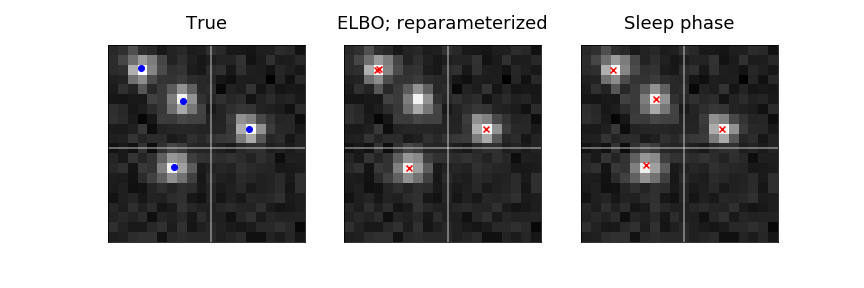
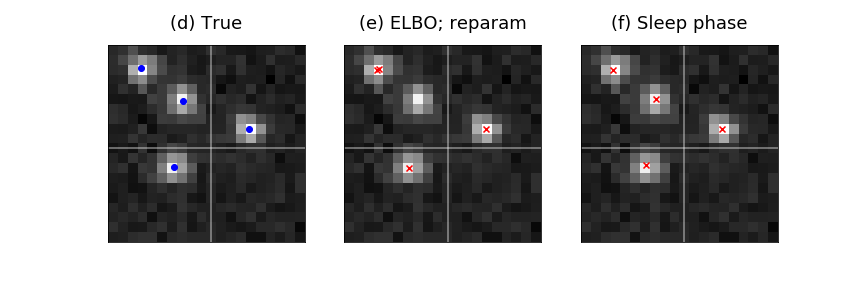
more edits

Changed region(s): [[0.375, 0.0312, 0.6562, 0.125], [0.6875, 0.0312, 0.875, 0.125], [0.1875, 0.0312, 0.2812, 0.125]]

diff --git a/6-results-m2.tex b/6-results-m2.tex
@@ -78,7 +78,7 @@ Estimated catalogs are evaluated on three metrics: the true positive rate (TPR),
 the PPV is the proportion of stars in the estimated catalog matched with a star in the HST catalog. The F1 score summarizes the two metrics as the harmonic mean of the PPV and the TPR.
 
 Like \cite{Portillo_2017} and \cite{Feder_2019}, a ``match" between an estimated star and an HST star is defined as follows: (1) the estimated location and the HST location are within 0.5 SDSS pixels, and (2) the estimated SDSS $r$-band flux and the HST F606W band flux are within half a magnitude. 
-The SDSS $r$-band and the Hubble F606W band are centered at roughly the same wavelength, but the wavelength range of the Hubble F606W band is slightly broader. 
+The slack in magnitude accounts for the fact that the wavelength range of the HST F606W band is slightly broader than the SDSS $r$-band (though they are centered at roughly the same wavelength). 
 
 In probabilistic cataloging (PCAT and StarNet), the posterior defines a distribution over catalogs. 
 For StarNet, the TPR, PPV, and F1 score were computed for the catalog corresponding to the mode of the variational distribution (henceforth, the StarNet catalog). 
@@ -98,7 +98,7 @@ For PCAT, 300 catalogs were sampled using MCMC; the metrics were computed for ea
 \end{figure}
 
 Fitting StarNet using wake-sleep (StarNet-WS) resulted in a catalog that outperforms DAOPHOT and PCAT in F1 score (Table~\ref{tab:summary_stats}). 
-Figure~\ref{fig:example_subimages} shows the StarNet-WS catalog alongside PCAT, DAOPHOT, and Hubble catalogs. 
+Figure~\ref{fig:example_subimages} shows the StarNet-WS catalog alongside PCAT, DAOPHOT, and HST catalogs. 
 Fitting StarNet without the wake phase
 and using only the default SDSS background and PSF (StarNet-S) produced a catalog with a TPR similar to that of StarNet-WS but with a smaller PPV.
 PCAT estimated the most stars of all methods; it therefore had a large TPR but a small PPV. 
@@ -107,7 +107,7 @@ The StarNet-WS catalog had about the same PPV as DAOPHOT while having nearly the
 
 Table~\ref{tab:summary_stats} also prints the number of stars inferred by each method. 
 For probabilistic methods (StarNet and PCAT), we display the mean number of stars under the approximate posterior, along with the 5-th and 95-th quantiles. 
-There are 1114 stars in the Hubble catalog.
+There are 1114 stars in the HST catalog.
 Neither PCAT nor StarNet captured the true number of stars in their 90\% credible interval, though StarNet-WS came the closest. 
 The StarNet credible intervals were three times wider than the PCAT intervals.
 The small PCAT credible intervals may be indicative of an MCMC sampler that failed to mix well. 
@@ -116,7 +116,7 @@ The small PCAT credible intervals may be indicative of an MCMC sampler that fail
 \input{tables/summary_stats_m2.txt}
 
 The improvement of StarNet-WS in PPV was most pronounced for dim stars (Figure~\ref{fig:summary_stats}). The TPR for StarNet-WS was uniformly better than DAOPHOT across all magnitudes. 
-Of all methods, StarNet-WS best approximated the Hubble flux distribution (Figure~\ref{fig:luminosity_fun_m2}). 
+Of all methods, StarNet-WS best approximated the HST flux distribution (Figure~\ref{fig:luminosity_fun_m2}). 
 % PCAT overestimated the number of dim stars with magnitudes greater than 21. 
 % In contrast, DAOPHOT failed to find stars with magnitudes greater than $21$.
 
@@ -147,7 +147,7 @@ Of all methods, StarNet-WS best approximated the Hubble flux distribution (Figur
     \includegraphics[width=0.99\textwidth]{figures/m2_results/luminosity_fun.png}
     \vspace{-0.4cm}
     \caption{Source magnitude histograms for the $r$-band observations of M2. 
-    The magnitude distribution of the Hubble catalog in grey. 
+    The magnitude distribution of the HST catalog in grey. 
     Magnitude distributions for the DAOPHOT, PCAT, and StarNet-WS catalogs overlaid.
     For PCAT, the magnitude histogram is from a single catalog sample. }
     \label{fig:luminosity_fun_m2}
@@ -173,9 +173,9 @@ The StarNet-WS estimate increases the intensity of the background, and hence doe
 % and is thus able to capture uncertainties in catalog construction. 
 % Samples from the StarNet-WS variational distribution are compared with samples from PCAT in Figure~\ref{fig:example_subimages_sampled}. 
 To examine the uncertainty calibration of StarNet-WS, we evaluated the approximate posterior 
-conditional on the true number of stars in the Hubble catalog. 
+conditional on the true number of stars in the HST catalog. 
 Then, each star in the StarNet-WS catalog was matched with exactly one Hubble star by finding the permutation of Hubble stars that had the largest log-likelihood under our variational distribution $q_\eta$. 
-For each star, we computed the z-score $(y - \hat y) / \hat \sigma$, where $y$ is the Hubble log-flux or 
+For each star, we computed the z-score $(y - \hat y) / \hat \sigma$, where $y$ is the HST log-flux or 
 logit-location; $\hat y$ and $\hat\sigma$ are the mean and the standard deviation, respectively, of the Gaussian variational distribution for the log-flux or logit-location.
 % If the uncertainties were perfectly calibrated, the distribution of these z-scores would be a standard Gaussian. 
 The empirical z-score distributions are close to a standard Gaussian with some discrepancy in the tails and some evidence of skewness, suggesting the uncertainties are not too mis-estimated (Figure~\ref{fig:z-score_calibration}). 
@@ -207,19 +207,19 @@ The empirical z-score distributions are close to a standard Gaussian with some d
 % \end{figure}
 
 
-Finally, we evaluate the quality of the wake-phase estimates for the PSF and background. Let $z_h$ denote the Hubble catalog, and given some model parameters $\phi$, let
+Finally, we evaluate the quality of the wake-phase estimates for the PSF and background. Let $z_h$ denote the HST catalog, and given some model parameters $\phi$, let
 \begin{align}
     \mathcal{L}^{Hubble}(\phi) := 
     - \log \; p_\phi(x^{(r)} | z_h)
     \label{eq:hubble_neg_loglik}
 \end{align}
-be the negative log-likelihood of the SDSS $r$-band image conditional on the Hubble catalog (recall that the Hubble absorption range most closely resembles the SDSS $r$-band).
+be the negative log-likelihood of the SDSS $r$-band image conditional on the HST catalog (recall that the Hubble absorption range most closely resembles the SDSS $r$-band).
 The log-likelihood of model parameters estimated by the wake phase is about two times larger than the log-likelihood of parameters estimated by SDSS~(Table~\ref{tab:chi-square-stats1}). 
 The largest improvement in log-likelihood came from the wake-estimated background, which was brighter than the SDSS background, suggesting that the SDSS background was too dim for this starfield. 
 
 \input{tables/chi_sq_stats.txt}
 
-Appendix~\ref{sec:test_m2} presents these results of StarNet, PCAT, and DAOPHOT on a neighboring $100 \times 100$ pixel subimage of M2. 
+Appendix~\ref{sec:test_m2} presents the results of StarNet, PCAT, and DAOPHOT on a neighboring $100 \times 100$ pixel subimage of M2. 
 The results remain qualitatively similar in that StarNet has the best F1 score of all methods. 
 Importantly, StarNet was applied to the new region without further wake-sleep optimization; StarNet produced a catalog on this new region in $\approx 30$ milliseconds. 
 On the other hand, PCAT required a new 30 minute run of MCMC. 

diff --git a/4c-sleep_details.tex b/4c-sleep_details.tex
@@ -1,6 +1,6 @@
 \subsection{Decomposing the sleep objective}
 \label{sec:sleep_details}
-In this section, we decompose the sleep objective in~\eqref{eq:sleep_obj} for closer study. 
+In this subsection, we decompose the sleep objective in~\eqref{eq:sleep_obj} for closer study. 
 We take $\phi$ as fixed in this section and drop the explicit dependence of $p$ on $\phi$.
 
 First, observe that optimizing the sleep objective does not require computing the intractable term $p(x)$:
@@ -15,34 +15,33 @@ Crucially, the integrating distribution, $p(x,z)$, does not depend on the optimi
 % In the ELBO, the integrating distribution is $q_\eta$, resulting in the need for reparameterization or other adjustments to compute stochastic gradients. 
 Thus, unbiased stochastic gradients can be obtained simply as 
 \begin{align}
-    g = -\nabla_\eta \log q_\eta(z | x) \quad \text{ for } (z, x)\sim p(x, z).
+    g = -\nabla_\eta \log q_\eta(z | x) \quad \text{ for } (x, z)\sim p(x, z).
 \end{align}
 
-In other words, the sleep phase simulates {\itshape complete} data $(z, x)$ from the generative model and evaluates the loss $-\log q_\eta(z | x)$. 
+In other words, at each iteration of SGD, the sleep phase simulates {\itshape complete} data $(x,z)$ from the generative model and evaluates the loss $-\log q_\eta(z | x)$. 
 Here, ``complete data" refers to the image along with its catalog. 
 This loss encourages the neural network to map an image $x$ to a distribution $q_{\eta}(\cdot | x)$ that places large mass on the image's catalog $z$.
 
 We decompose the loss $-\log q_\eta(z | x)$ further. 
 Recall that $q_\eta$ fully factorizes over tile latent variables, and thus $-\log q_\eta(z | x)$ is a summation over all tile latent variables. 
-To evaluate the $-\log q_\eta(z | x)$ for some $(x,z)\sim p$, first convert $z$ to its tile parameterization $(\tilde N^{(s,t)}, \tilde \ell^{(s,t)}, \tilde f^{(s,t)})_{s=1,t=1}^{(S,T)}$, as detailed in Appendix REF.
+To evaluate $-\log q_\eta(z | x)$ for some $(x,z)\sim p$, first convert $z$ to its tile parameterization $(\tilde N^{(s,t)}, \tilde \ell^{(s,t)}, \tilde f^{(s,t)})_{s=1,t=1}^{(S,T)}$, as detailed in Appendix REF.
 On each tile $(s,t)$, the number of stars $\tilde N^{(s,t)}$ is categorical with parameter $\omega^{(s,t)}$ (recall Section~\ref{sec:distr_on_tiles}).
 The loss function for the number of stars becomes
 \begin{align}
-    - \log q_\eta(\tilde N^{(s,t)} | x) = -\sum_{n = 0}^{\tilde N_{max}} 1\{\tilde N^{(s,t)} = n\} \log \omega^{(s,t)}_n, 
+    - \log q_\eta(\tilde N^{(s,t)} | x) = -\sum_{n = 0}^{\tilde N_{max}} 1\{\tilde N^{(s,t)} = n\} \log \omega^{(s,t)}_n.
     \label{eq:cross_entropy_loss}
 \end{align}
-$\omega^{(s,t)}_n$ is the output of the neural network, and \eqref{eq:cross_entropy_loss} is the usual cross-entropy loss for a multi-class classification problem. 
+The vector $\omega^{(s,t)}$ is the output of the neural network, and \eqref{eq:cross_entropy_loss} is the usual cross-entropy loss for a multi-class classification problem. 
 
 Next, recall that location coordinates are logit-normal and fluxes are log-normal. 
-Let $y$ generically denote either the logit-location or log-flux for a star in catalog $z$; let $(\mu, \sigma)$ be the Guassian mean and standard deviation returned by the neural network. Then,
+Let $y$ generically denote either the logit-location or log-flux for a star in the sampled catalog $z$; let $(\mu, \sigma^2)$ be the Guassian mean and variance returned by the neural network. Then,
 \begin{align}
     -\log q_\eta(y | x) = 
         \frac{1}{2\sigma^2}(y - \mu)^2
-         + \log\sigma
-         + \frac{1}{2}\log(2\pi).
+         + \frac{1}{2}\log(2\pi\sigma^2).
          \label{eq:gaussian_sleep_loss}
 \end{align}
-The first term encourages network predictions $\mu$ to be close to the sampled latent variable $y$, while $\sigma^2$ encodes the uncertainty of the network: the second term encourages small uncertainties, but this is 
+The first term encourages network predictions $\mu$ to be close to the sampled latent variable $y$, while $\sigma^2$ encodes the uncertainty of the network: the second term encourages small uncertainties, but is 
 balanced by the scaling of the error $(y - \mu)^2$ in the first term. 
 
 % By our discussion in Section~\ref{sec:factorization}, 
@@ -58,7 +57,7 @@ balanced by the scaling of the error $(y - \mu)^2$ in the first term.
 % $\sigma_{n,i}$ is also outputted by the neural network, representing uncertainty -- the second term encourages small uncertainties, but this is 
 % balanced by the scaling of the error $(y_{n,i} - \mu_{n,i})^2$ in the first term. 
 
-The losses in~\eqref{eq:cross_entropy_loss} and~\eqref{eq:gaussian_sleep_loss} show that the sleep objective results in a supervised learning problem on complete data simulated from our generative model: the objective function for the number of stars is the usual cross-entropy loss for classification, while the objective function for log-fluxes and logit-locations are $L_2$ losses in the mean parameters. 
+The losses in~\eqref{eq:cross_entropy_loss} and~\eqref{eq:gaussian_sleep_loss} show that the sleep objective results in a supervised learning problem on complete data sampled from our generative model: the objective function for the number of stars is the usual cross-entropy loss for classification, while the objective function for log-fluxes and logit-locations are $L_2$ losses in the mean parameters. 
 
 
 % In Section~\ref{sec:estep_sleep_compare}, we will see the benefits of using complete data and optimizing $q_\eta$ using the losses~\eqref{eq:cross_entropy_loss} and \eqref{eq:gaussian_sleep_loss}  rather than the traditional ELBO. 

diff --git a/3-var_inference.tex b/3-var_inference.tex
@@ -92,7 +92,7 @@ on each tile:
 where $\tilde\ell_{N, i}^{(s, t)}$ and $\tilde f_{N, i}^{(s, t)}$ are the elements of the triangular array corresponding to location and fluxes, respectively. 
 Tile locations $\tilde\ell_{N, i}^{(s, t)} \in [0, R]\times[0, R]$ give the location of stars within a tile. The fluxes $\tilde f_{N, i}^{(s, t)}$ are vectors in $\mathbb{R}^B_+$ (one flux for each band). 
 
-Call $(\tilde N^{(s, t)}, \tilde \ell^{(s, t)}, \tilde f^{(s, t)})_{s=1,t=1}^{S,T}$ the {\itshape tile latent variables}. The tile latent variables factorize over image tiles:
+Call $(\tilde N^{(s, t)}, \tilde \ell^{(s, t)}, \tilde f^{(s, t)})_{s=1,t=1}^{S,T}$ the {\itshape tile latent variables}. The distribution on tile latent variables factorize over image tiles:
 \begin{align}
     \tilde q_\eta\big( \big(\tilde N^{(s, t)}, \tilde \ell^{(s, t)}, \tilde f^{(s, t)}\big)_{s=1, t = 1}^{S, T}|x\big) 
     &=
@@ -103,11 +103,11 @@ Call $(\tilde N^{(s, t)}, \tilde \ell^{(s, t)}, \tilde f^{(s, t)})_{s=1,t=1}^{S,
 
 Succinctly denote tile latent variables as $\tilde z$.
 The ultimate latent variable of interest is $z = \{N, (\ell_i, f_{i,1}, ..., f_{i,B})_{i = 1}^N\}$, the catalog for the full image.
-There is a natural mapping from $\tilde z$ to $z$
-(see Figure~\ref{fig:tile_to_full_schm} for a schematic). 
+There is a natural mapping from $\tilde z$ to $z$. 
 First, the number of stars in the full catalog is given by the sum of the stars in each tile, $N = \sum_{s,t} \tilde N^{(s, t)}$. 
 Then, for every tile $(s,t)$, we index into the $\tilde N^{(s,t)}$-th row of the triangular array of tile latent variables $\tilde f^{(s,t)}$ and $\tilde \ell^{(s,t)}$. 
 The collection of these fluxes and locations form the full catalog (tile locations are shifted by the position of the tile in the full image to obtain locations in the full image). 
+See Figure~\ref{fig:tile_to_full_schm} for a schematic.
 
 
 % \begin{align}
@@ -198,7 +198,7 @@ $(s,t)$ in this subsection,
 \end{align}
 independently for $i = 1, ..., \tilde N$; $\tilde{N} = 1, ..., N_{max}$. 
 $\omega$ is a $(\tilde N_{max} + 1)$-dimensional vector on the simplex. $\mu_{\ell_{\tilde N, i}}$ and $\nu_{\ell_{\tilde N, }}$ are two-dimensional vectors -- the covariance on locations is diagonal. 
-The latent variables also fully factorize within each tile. Note that in the exact posterior, $\tilde N$ has support on the nonnegative integers; in the variational distribution, we truncate at some large $N_{max}$. 
+Note that in the exact posterior, $\tilde N$ has support on the nonnegative integers; in the variational distribution, we truncate at some large $N_{max}$. 
 
 
 These distributions were taken to match the constraints of the latent variables: fluxes are positive and right skewed, suggesting a log-normal; locations are between zero and $R$, suggesting a scaled logit-normal. 
@@ -226,9 +226,9 @@ Thus, while the distribution on tile latent variables factorize over tiles, the 
 % \end{align}
 % The same neural network is evaluated for all tiles $(s,t)$. 
 In amortized inference, the variational parameters $\eta$ to be optimized are neural network weights.
-The architecture consists of several convolutional layers followed by fully connected layers (Figure~\ref{fig:starnet_arch}). 
+The architecture consists of several convolutional layers followed by several fully connected layers (Figure~\ref{fig:starnet_arch}). 
 This architecture has been successful on image classification challenges such as ImageNet~\citep{imagenet2015}. 
-The optimization of the architecture is left for future work. 
+The optimization of the architecture for this specific application is left for future work. 
 % our focus in this paper is the application of neural networks to provide a variational posterior for cataloging starfields, not the network architecture per se. 
 
 

diff --git a/5-results-synth_data.tex b/5-results-synth_data.tex
@@ -10,7 +10,7 @@ where the fitted approximate posterior is far in KL divergence from the exact po
 These local optima result in unreliable catalogs. 
 The sleep objective, by taking advantage of  complete data, appears to better avoid these local optima. 
 For this example, the data were simulated with known PSF and background, and the wake phase is not needed. 
-The simulated $20\times20$ single-band image $x_{test}$ is shown in the bottom row of Figure~\ref{fig:optim_path}.
+The simulated $20\times20$ single-band image $x_{test}$ is shown in Figure~\ref{fig:optim_path}(d).
 
 
 We compare three approaches to deblending. The first two approaches directly optimize the test ELBO, 
@@ -27,19 +27,19 @@ and simulating images conditional on each catalog.
 The prior on the number of stars was set to Poisson with mean $\mu = 4$. 
 
 Figure~\ref{fig:optim_path}~(top row) charts the test ELBO~\eqref{eq:elbo_on_test} as the optimization proceeds in our three approaches.
-The first approach optimizes the ELBO with stochastic gradient descent and the REINFORCE gradient estimator.
+The first approach optimizes the ELBO with SGD and the REINFORCE gradient estimator.
 This optimization did not converge, likely due to the high variance of the REINFORCE estimator (Figure~\ref{fig:optim_path}a). 
 For a lower variance gradient estimator, the second approach employed the reparameterized gradient. To employ this gradient estimator, we analytically integrated the ELBO with respect to the number of stars $N$ to remove the discrete random variable. 
 See Appendix~\ref{sec:reparam_details} for details about the gradient estimators. 
 Using reparameterized gradients instead of REINFORCE gradients enabled the optimization to converge to stationary points (Figure~\ref{fig:optim_path}b). 
-However, for two of the six randomly initialized restarts, 
+However, for two of randomly initialized restarts, 
 the optimization found local optima where the negative ELBO is higher than other restarts. 
 
 In contrast, optimizing the sleep objective consistently converged to a similar ELBO across all restarts and appeared to avoid shallow local optima (Figure~\ref{fig:optim_path}c).
 Recall that sleep phase optimization does not directly optimize the test ELBO. However, the test ELBO increases nonetheless, because the variational posterior better approximates the exact posterior as the optimization proceeds. 
 
 Shallow local optima in the ELBO result in unreliable catalogs. 
-The bottom row of Figure~\ref{fig:optim_path} displays the estimated locations, defined as the mode of the fitted variational distribution. 
+Figure~\ref{fig:optim_path}(e) displays the estimated locations, defined as the mode of the fitted variational distribution. 
 The bottom left shows these locations after converging to a shallow local optimum. 
 Here, the upper left tile was correctly estimated to have two stars, though both estimated stars were placed at the same location.
 For correct detections, one of the locations should be placed on the second star.
@@ -47,7 +47,7 @@ However, in order to move one of the estimated locations to the second star, the
 The displayed configuration is a local optimum where the gradient with respect to its locations is approximately zero.
 In contrast, the sleep-phase variational distribution consistently placed its mode around the four true stars. 
 The sleep objective is quadratic in the logit-location estimate $\mu_\ell$ (Equation~\ref{eq:gaussian_sleep_loss}), and the gradient does not vanish in the sleep objective. 
-An example of correct detection after sleep-phase optimization is shown in the bottom right image of~Figure~\ref{fig:optim_path}.
+An example of correct detection after sleep-phase optimization is shown in~Figure~\ref{fig:optim_path}(f).
 
 \begin{figure}[!htb]
     \centering

diff --git a/1-introduction.tex b/1-introduction.tex
@@ -62,15 +62,15 @@ Early implementations of PCAT required a day to process a $100\times 100$ pixel 
 More recent implementations running inexact MCMC brought the runtime down to 30  minutes~\citep{Feder_2019}.  
 In any case, a $100\times 100$ pixel image covers only a $0.66 \times 0.66$ arcminute patch of the sky.
 For comparison, in one night, SDSS scans a region on the order of $100 \times 1000$ arcminutes. 
-Extrapolating the 30-minute runtime, PCAT would take about ten years to process a nightly SDSS run. 
+Extrapolating the 30-minute runtime, PCAT would take on the order of ten years to process a nightly SDSS run. 
 
 As an alternative to MCMC, \cite{regier2019_celeste} produced an approximate posterior using variational inference.
 Variational inference (VI) considers a family of candidate approximate posteriors and employs numerical optimization to find the distribution in the family closest
 in KL divergence to the exact posterior~\citep{Jordan_intro_vi, Wainwrite_graph_models_vi, Blei_2017_vi_review}. 
 With a sufficiently constrained family of distributions, the VI optimization problem can be solved orders of magnitude faster than MCMC runs. 
 
-However, \cite{regier2019_celeste} is limited in that the number of light sources in a given image is treated as known and fixed -- it had to be set using a preprocessing routine. 
-This simplification was made in order to have a tractable objective for numerical optimization. 
+However, \cite{regier2019_celeste} is limited in that the number of light sources in a given image is treated as known and fixed -- it had to be set using a preprocessing routine.
+It avoided the transdimensional latent variable space in order to have a tractable objective for numerical optimization. 
 
 \bigbreak
 
@@ -102,7 +102,7 @@ Section~\ref{sec:wake_sleep} details the wake-sleep procedure.
 
 In this application, optimizing the forward KL produces more reliable approximate posteriors than optimizing the traditional reverse KL (Section \ref{sec:elbo_sleep_compare}). 
 In particular, optimizing the forward KL involves sampling {\itshape complete} data---images and their corresponding catalogs---from the joint likelihood and fitting the network in a supervised fashion.
-Taking advantage of complete data allows the network to better avoid shallow local minima where the approximate posterior returned is far from the exact posterior in terms of KL divergence. 
+Taking advantage of complete data allows the network to better avoid shallow local minima where the approximate posterior is far from the exact posterior in terms of KL divergence. 
 
 The wake-sleep algorithm has been used in previous research to train deep generative models~\citep{Hinton1995wake_sleep, bornschein2014reweighted, le2020revisiting}.
 However, to the best of our knowledge, this is the first application of wake-sleep for scientific purposes. 
@@ -115,7 +115,7 @@ StarNet was more accurate than both the MCMC-based cataloger PCAT and traditiona
 % Although the MCMC posterior approximation converges to the exact posterior asymptotically, over finite horizons an MCMC sampler may not mix well. The sleep-phase objective from the Wake-Sleep algorithm allows StarNet to circumvent many of the challenges of nonconvex optimization
 % (Section~\ref{sec:discussion}).
 Code to reproduce our results is publicly available in a GitHub repository.\footnote{
-\url{https://github.com/NAME_IS_BLINDED/DeblendingStarfields}. 
+\url{https://github.com/Runjing-Liu120/DeblendingStarfields}. 
 } 
 
 % However, in addition to greater speed, amortized inference may be better at nonconvex optimization: by learning a policy from many examples we learn a policy for avoiding shallow local minima. 

diff --git a/4a-wake_sleep.tex b/4a-wake_sleep.tex
@@ -7,13 +7,13 @@ optimize the ELBO  without the need for
 deriving analytic expressions for the expectation over $q_\eta$.  
 % Examples of such ``automatic" procedures include 
 %and automatic-differentiation variational inference (ADVI)~\citep{kucukelbir2016automatic}. 
-These approaches all employ stochastic gradient descent; 
+These approaches all employ stochastic gradient descent (SGD); 
 they sample latent variables from $q_\eta$ and produce an unbiased estimate for the gradient of the ELBO by taking advantage of modern automatic differentiation tools. 
-ADVI is closely related to the reparameterization trick \citep{kingma2013autoencoding, rezende2014stochastic}, which applies when the latent variables are continuous, and often used to fit variational autoencoders. 
+ADVI is closely related to the reparameterization trick \citep{kingma2013autoencoding, rezende2014stochastic}, which is often used to fit variational autoencoders and applies when the latent variables are continuous. 
 
 In our model, the number of stars $N$ is discrete.
 As an alternative, the REINFORCE estimator~\citep{Williams1992reinforce} produces an unbiased stochastic gradient for both continuous and discrete latent variables.
-However, REINFORCE gradients without additional modification often suffer from high variance in practice, and so the resulting stochastic optimization is slow. We find this to be true in our application (Section~\ref{sec:elbo_sleep_compare}). 
+However, REINFORCE gradients without additional modification often suffer from high variance in practice, resulting in slow convergence of stochastic optimization. We find this to be true in our application (Section~\ref{sec:elbo_sleep_compare}). 
 % See Appendix~\ref{sec:reparam_details} for details concerning both the reparameterization and REINFORCE estimators. 
 
 The key difficulty in constructing stochastic gradients of the ELBO is that the integrating distribution depends on the optimization parameter $\eta$. 
@@ -35,7 +35,7 @@ The target is no longer an approximate posterior for the observed data, but rath
 
 Therefore, it is imperative that the model $p(x)$ approximates the true underlying data-generating mechanism well. 
 Thus, the wake-sleep algorithm also incorporates a ``wake phase" to estimate model parameters.
-In our application, these model parameters include the PSF parameters $\pi$ and background parameters $\beta$. Define 
+In our application, these model parameters include PSF parameters $\pi$ and background parameters $\beta$. Define 
 $\phi:=(\pi, \beta)$, and denote the dependence of the generative model on $\phi$ using subscripts, $p_\phi$. 
 
 To estimate model parameters, one would ideally optimize the marginal log-likelihood $\log p_\phi(x)$.

diff --git a/4b-variational_em.tex b/4b-variational_em.tex
@@ -4,7 +4,7 @@ which alternates between an {\itshape expectation} step (E-step) and a {\itshape
 Variational EM can be viewed as block coordinate ascent on the ELBO objective, with the E-step optimizing variational parameters $\eta$ and the M-step optimizing the model parameters $\phi$. 
 The wake phase of the wake-sleep algorithm is equivalent to the M-step of variational EM. 
 As discussed above, the optimization of the ELBO with respect to $\eta$ is not conducive to using simple stochastic gradient estimators.
-Thus, the sleep phase replaces the ELBO objective of the E-step with the expected reverse KL in~\eqref{eq:sleep_obj}.
+Thus, the sleep phase replaces the ELBO objective of the E-step with the expected KL in~\eqref{eq:sleep_obj}.
 
 
 % \begin{align}
